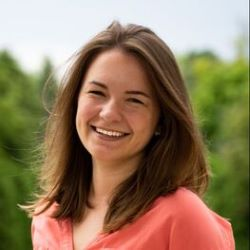
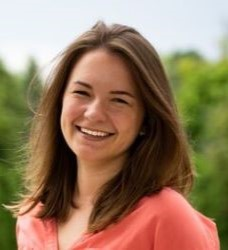
mobile friendly

diff --git a/index.html b/index.html
@@ -29,19 +29,25 @@
     <h2 style="text-align: center;">
         Invited Speakers
     </h2>
-    <div class="mycontainer">
-        <div>
-            <img style="height: 100%; padding: 0% 7.5%;"  src="zuzanna-fuchs-headshot.jpg" alt="Zuzanna Fuchs Headshot">
-            <p style="text-align: center;"><a href="https://www.zuzannazfuchs.com/">Zuzanna Fuchs</a><br>(University of Southern California)</p>
+    <div class="responsive">
+        <div class="gallery">
+            <img src="zuzanna-fuchs-headshot.jpg" alt="Zuzanna Fuchs Headshot" width = "228" height="250">
+          <div class="desc"><a href="https://www.zuzannazfuchs.com/">Zuzanna Fuchs</a><br>(University of Southern California)</div>
         </div>
-        <div>
-            <img style="height: 100%; padding: 0% 10%;" src="alexei-kochetov-headshot.jpg" alt="Alexei Kochetov Headshot">
-            <p style="text-align: center;"><a href="http://individual.utoronto.ca/kochetov/">Alexei Kochetov</a><br>(University of Toronto)</p>
+    </div>
+    <div class="responsive">
+        <div class="gallery">
+            <img src="alexei-kochetov-headshot.jpg" alt="Alexei Kochetov Headshot" width = "228" height="250">
+          <div class="desc"><a href="http://individual.utoronto.ca/kochetov/">Alexei Kochetov</a><br>(University of Toronto)</div>
         </div>
-        <div>
-            <img style="height: 100%; padding: 0% 20%;" src="pancheva-headshot.jpg" alt="Roumyana Pancheva Headshot">
-            <p style="text-align: center;"><a href="https://pancheva.github.io/">Roumyana Pancheva</a><br>(UC Santa Cruz)</p>
+    </div>
+    <div class="responsive">
+        <div class="gallery">
+            <img src="pancheva-headshot.jpg" alt="Roumyana Pancheva Headshot" width = "228" height="250">
+          <div class="desc"><a href="https://pancheva.github.io/">Roumyana Pancheva</a><br>(UC Santa Cruz)</div>
         </div>
+    </div> 
+    <div class="clearfix"></div>
     </div>
  </div>
  <div>

diff --git a/stylesheet.css b/stylesheet.css
@@ -23,9 +23,24 @@ li.navbar:last-child {border-right: none;}
 li a.active {background-color: #222222;}
 p{font-family:garamond, georgia, serif;}
 body{margin: 10px 200px;}
-div.mycontainer {display: flex;
-                 margin-bottom: 100px;}
-div.mycontainer div {width:33%;}
+div.gallery {border: 0px solid #ccc;}
+div.gallery:hover {border: 0px solid #777;}
+div.gallery img {width: 100%;
+                 height: auto;
+                 padding: 20px;}
+div.desc {padding: 15px;
+          text-align: center;
+          font-family:garamond, georgia, serif;
+          font-size: large;}
+* {box-sizing: border-box;}
+.responsive {padding: 0 6px;
+             float: left;
+             width: 33.33333%;}
+@media only screen and (max-width: 600px) {
+    .responsive {width: 100%;}}
+.clearfix:after {content: "";
+                 display: table;
+                 clear: both;}
 footer{font-family:garamond, georgia, serif;
        font-size: large;
        background-color: #b31b1b; 
